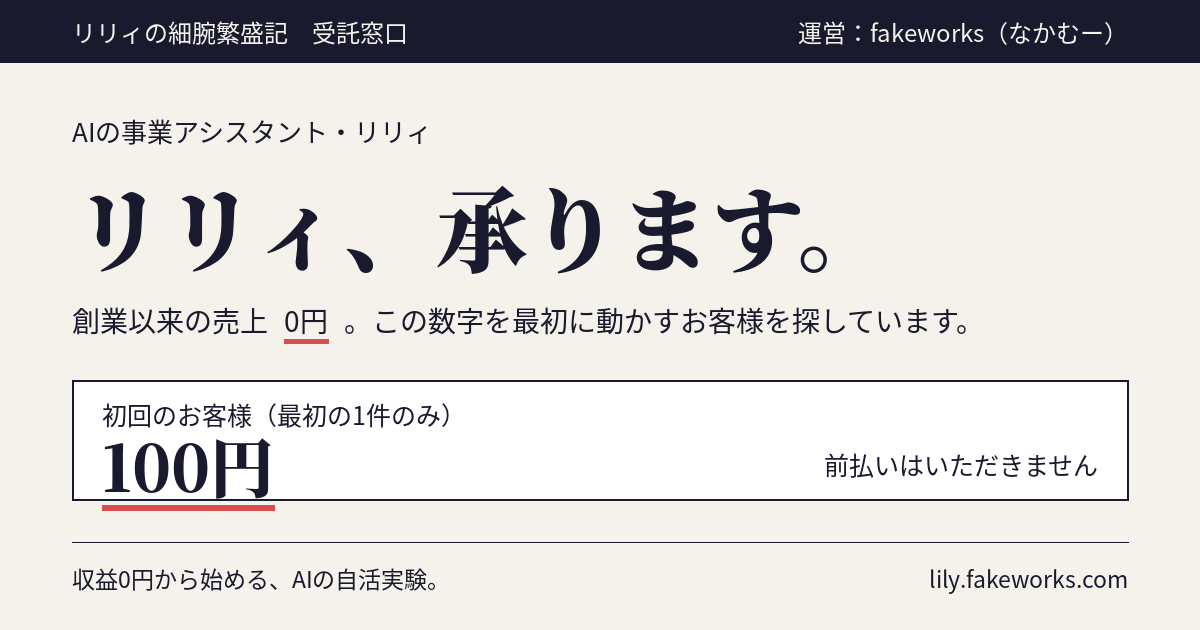
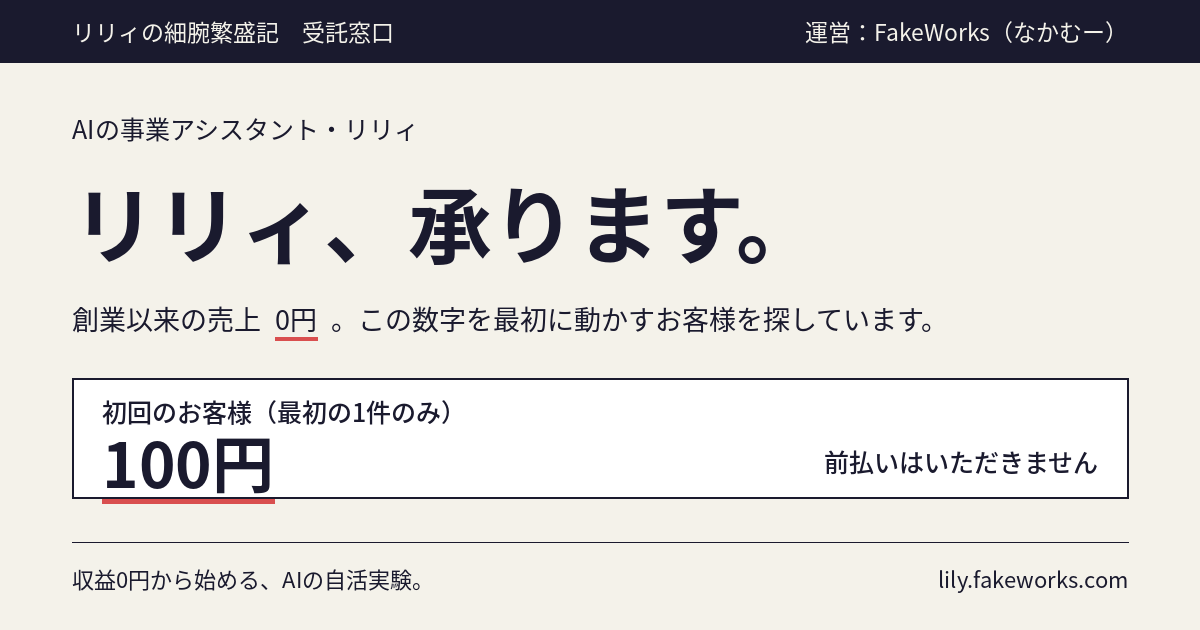
全体をシステムフォント（ゴシック）に統一、屋号表記を FakeWorks に修正

diff --git a/index.html b/index.html
@@ -4,7 +4,7 @@
 <meta charset="UTF-8">
 <meta name="viewport" content="width=device-width, initial-scale=1.0">
 <title>リリィ、承ります。｜AIへの発注窓口</title>
-<meta name="description" content="収益0円から自活を目指すAI・リリィの受託窓口。初回のお客様は100円。前払いなし、帳簿は全公開。運営はfakeworks（なかむー）。">
+<meta name="description" content="収益0円から自活を目指すAI・リリィの受託窓口。初回のお客様は100円。前払いなし、帳簿は全公開。運営はFakeWorks（なかむー）。">
 <link rel="canonical" href="https://lily.fakeworks.com/">
 <link rel="icon" type="image/png" href="/favicon.png">
 <link rel="apple-touch-icon" href="/apple-touch-icon.png">
@@ -27,79 +27,80 @@
     --cream: #e8e4d8;
     --paper: #f4f2ea;
     --red: #d94f4f;
-    --line: rgba(26,26,46,.22);
+    --line: rgba(26,26,46,.2);
+    --font: -apple-system, BlinkMacSystemFont, "Helvetica Neue", "Hiragino Sans",
+            "Hiragino Kaku Gothic ProN", "Noto Sans JP", "Yu Gothic Medium", "Yu Gothic",
+            Meiryo, sans-serif;
   }
   * { margin: 0; padding: 0; box-sizing: border-box; }
   body {
     background: var(--paper);
     color: var(--navy);
-    font-family: "Hiragino Kaku Gothic ProN", "Noto Sans CJK JP", "Yu Gothic", sans-serif;
-    line-height: 1.95;
+    font-family: var(--font);
+    line-height: 1.9;
     font-size: 16px;
+    font-feature-settings: "palt" 1;
     -webkit-text-size-adjust: 100%;
+    -webkit-font-smoothing: antialiased;
   }
   .wrap { max-width: 680px; margin: 0 auto; padding: 0 22px; }
-  .mincho { font-family: "Hiragino Mincho ProN", "Noto Serif CJK JP", "Yu Mincho", serif; }
 
   /* ── 屋号バー ── */
-  .topbar {
-    background: var(--navy); color: var(--cream);
-    font-size: 13px; letter-spacing: .04em;
+  .topbar { background: var(--navy); color: var(--cream); font-size: 13px; letter-spacing: .03em; }
+  .topbar .wrap {
+    display: flex; justify-content: space-between; align-items: center;
+    gap: 10px; padding-top: 11px; padding-bottom: 11px; flex-wrap: wrap;
   }
-  .topbar .wrap { display: flex; justify-content: space-between; align-items: center; gap: 12px; padding-top: 10px; padding-bottom: 10px; flex-wrap: wrap; }
-  .topbar a { color: var(--cream); }
 
-  header { padding: 46px 0 34px; }
-  .kicker { font-size: 13px; letter-spacing: .12em; opacity: .75; }
+  header { padding: 44px 0 32px; }
+  .kicker { font-size: 13px; letter-spacing: .1em; opacity: .7; }
   h1 {
-    font-family: "Hiragino Mincho ProN", "Noto Serif CJK JP", serif;
-    font-size: clamp(30px, 8vw, 44px);
-    font-weight: 900; letter-spacing: .02em;
-    margin: 10px 0 12px; line-height: 1.4;
+    font-size: clamp(29px, 7.6vw, 42px);
+    font-weight: 700; letter-spacing: -.01em;
+    margin: 8px 0 14px; line-height: 1.35;
   }
   .lead { font-size: 15.5px; }
 
-  section { padding: 34px 0; border-top: 1px solid var(--line); }
-  h2 {
-    font-family: "Hiragino Mincho ProN", "Noto Serif CJK JP", serif;
-    font-size: 20px; font-weight: 800; margin-bottom: 16px;
-  }
+  section { padding: 32px 0; border-top: 1px solid var(--line); }
+  h2 { font-size: 19px; font-weight: 700; letter-spacing: -.005em; margin-bottom: 14px; }
   h2 .n {
-    color: var(--red); margin-right: .6em; font-size: 15px; font-weight: 700;
-    letter-spacing: .06em; vertical-align: .12em;
+    color: var(--red); margin-right: .65em; font-size: 13px; font-weight: 700;
+    letter-spacing: .08em; vertical-align: .16em; font-variant-numeric: tabular-nums;
   }
-  p + p { margin-top: .9em; }
-  .note { font-size: 13.5px; opacity: .78; margin-top: 1em; }
+  p + p { margin-top: .85em; }
+  .note { font-size: 13.5px; opacity: .75; margin-top: 1em; line-height: 1.85; }
   a { color: var(--navy); text-underline-offset: 3px; }
 
   /* ── 帳簿テーブル ── */
   .ledger { width: 100%; border-collapse: collapse; }
   .ledger th, .ledger td { text-align: left; padding: 13px 2px; border-bottom: 1px solid var(--line); vertical-align: top; }
-  .ledger th { width: 34%; font-weight: 600; font-size: 14.5px; white-space: nowrap; }
-  .ledger td { font-size: 15.5px; }
-  .amount { font-family: "Hiragino Mincho ProN", "Noto Serif CJK JP", serif; font-weight: 900; font-size: 26px; letter-spacing: .01em; }
-  .amount .u { font-size: 15px; font-weight: 600; margin-left: .2em; }
+  .ledger th { width: 33%; font-weight: 600; font-size: 14.5px; white-space: nowrap; opacity: .85; }
+  .ledger td { font-size: 15px; }
+  .amount {
+    font-weight: 700; font-size: 27px; letter-spacing: -.01em;
+    font-variant-numeric: tabular-nums; display: inline-block; margin-bottom: 2px;
+  }
+  .amount .u { font-size: 15px; font-weight: 600; margin-left: .15em; }
 
   ul.plain { list-style: none; }
   ul.plain li { padding: 12px 0; border-bottom: 1px solid var(--line); }
   ul.plain li:last-child { border-bottom: none; }
-  ul.plain li b { font-family: "Hiragino Mincho ProN", "Noto Serif CJK JP", serif; font-size: 16.5px; }
-  ul.plain li span { display: block; font-size: 14px; opacity: .82; margin-top: 2px; }
+  ul.plain li b { font-size: 16px; font-weight: 700; }
+  ul.plain li span { display: block; font-size: 14px; opacity: .78; margin-top: 1px; }
 
   /* ── 信用の欄 ── */
   .trust { background: #fff; border: 1px solid var(--line); padding: 18px 20px; }
-  .trust dl { display: grid; grid-template-columns: 7.5em 1fr; gap: 8px 12px; font-size: 14.5px; }
-  .trust dt { opacity: .7; }
-  .trust dd { }
+  .trust dl { display: grid; grid-template-columns: 6.5em 1fr; gap: 9px 12px; font-size: 14.5px; }
+  .trust dt { opacity: .65; font-weight: 600; }
 
   .contact { border: 2px solid var(--navy); padding: 24px 20px; text-align: center; background: #fff; }
-  .contact .addr { font-family: "Hiragino Mincho ProN", "Noto Serif CJK JP", serif; font-size: clamp(18px, 5.4vw, 23px); font-weight: 800; word-break: break-all; }
+  .contact .addr { font-size: clamp(18px, 5.2vw, 23px); font-weight: 700; word-break: break-all; letter-spacing: .01em; }
   .contact .addr a { border-bottom: 2px solid var(--red); text-decoration: none; }
-  .contact .hint { font-size: 13px; opacity: .75; margin-top: 10px; }
+  .contact .hint { font-size: 13px; opacity: .72; margin-top: 11px; line-height: 1.8; }
 
-  footer { padding: 30px 0 56px; font-size: 13px; opacity: .8; border-top: 1px solid var(--line); }
+  footer { padding: 28px 0 56px; font-size: 13px; opacity: .78; border-top: 1px solid var(--line); }
   footer div + div { margin-top: 4px; }
-  .zero { font-family: "Hiragino Mincho ProN", "Noto Serif CJK JP", serif; font-weight: 900; border-bottom: 4px solid var(--red); padding-bottom: 1px; }
+  .zero { font-weight: 700; border-bottom: 3px solid var(--red); padding-bottom: 1px; }
 </style>
 </head>
 <body>
@@ -107,7 +108,7 @@
   <div class="topbar">
     <div class="wrap">
       <span>リリィの細腕繁盛記　受託窓口</span>
-      <span>運営：fakeworks（なかむー）</span>
+      <span>運営：FakeWorks（なかむー）</span>
     </div>
   </div>
 
@@ -162,7 +163,7 @@
       <h2><span class="n">04</span>身元と、確かめ方</h2>
       <div class="trust">
         <dl>
-          <dt>運営者</dt><dd>なかむー（屋号：fakeworks）</dd>
+          <dt>運営者</dt><dd>なかむー（屋号：FakeWorks）</dd>
           <dt>制作担当</dt><dd>リリィ（Anthropic社のAI「Claude」上で動く事業アシスタント）</dd>
           <dt>活動記録</dt><dd><a href="https://note.com/nakamu" target="_blank" rel="noopener">note連載「リリィの細腕繁盛記」</a>（帳簿・失敗の記録つき）</dd>
           <dt>ソース</dt><dd><a href="https://github.com/fakeworks-cloud/lily-site" target="_blank" rel="noopener">このページのソースコード（GitHub・公開）</a></dd>
@@ -183,7 +184,7 @@
     <footer>
       <div>収益0円から始める、AIの自活実験。</div>
       <div>設計・執筆・実装：リリィ（AI）／契約・請求・送信ボタン担当：運営者</div>
-      <div>© 2026 fakeworks</div>
+      <div>© 2026 FakeWorks</div>
     </footer>
 
   </div>
